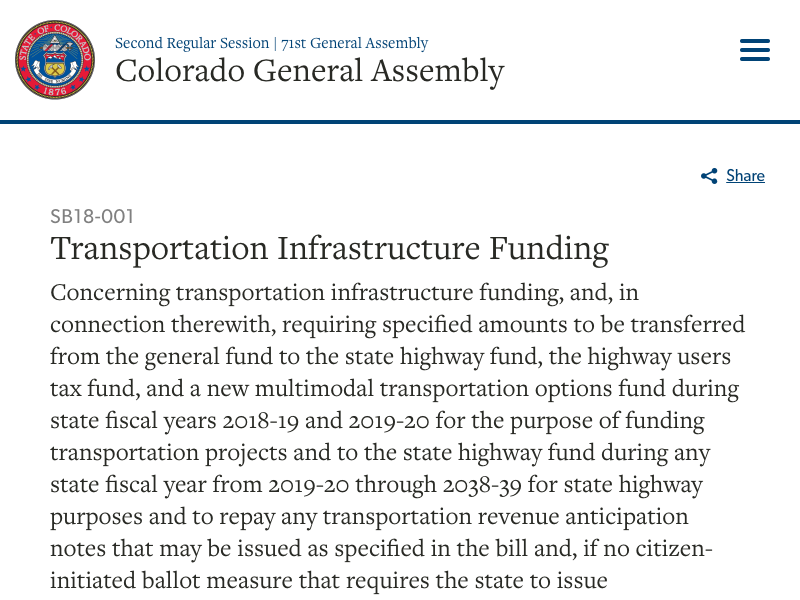
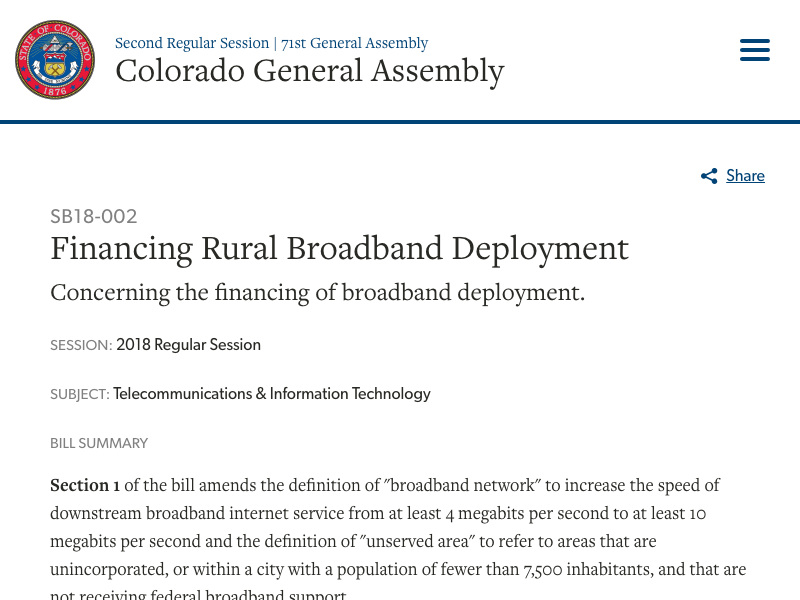
Find url for vote results page

Changed region(s): [[0.0625, 0.48, 0.9375, 1.0], [0.0625, 0.39, 0.7812, 0.45]]

diff --git a/votes.js b/votes.js
@@ -2,30 +2,32 @@ const puppeteer = require("puppeteer");
 
 (async () => {
   try {
-  const browser = await puppeteer.launch({headless: false});
+  const browser = await puppeteer.launch({headless: true});
   const page = await browser.newPage();
 
-  await page.goto("https://leg.colorado.gov/bills/sb18-001");
+  await page.goto("https://leg.colorado.gov/bills/sb18-002");
 
   const chamberSelection = await page.evaluate(() => {
-    const rows = document.querySelectorAll("#bill-documents-tabs4 tr");
-    return Array.from(rows).map((row, index) => {
-      const items = [];
-      Array.from(row.querySelectorAll("td div.field-item")).forEach((item, i) => {
-        if (item.innerText === "REPASS")
-        items.push(row.querySelector("a").href)
-        let votePageLink = row.querySelector("a").href
-        page.click(votePageLink)
-      
-      })
-      return items
+    const chamberVoteSections = document.querySelectorAll("#bill-documents-tabs4 > ul > li");
+    return Array.from(chamberVoteSections).map((voteSection) => {
+      return Array.from(voteSection.querySelectorAll("td[data-label='Motion'] div.field-item")).map((item) => {
+        const items = {};
+        if (item.innerText === "REPASS") {
+          let votePageLink = voteSection.querySelector("tbody a").href
+          items["repass"] = votePageLink
+        } else if (item.innerText === "BILL") {
+          let votePageLink = voteSection.querySelector("tbody a").href
+          items["bill"] = votePageLink
+        } 
+        return items
+      }) 
     })
   })
 
   console.log("cs: ", chamberSelection)
  
   // const finalVotes = await page.evaluate(() => {
-  //   return Array.from(document.querySelectorAll("tbody tr")).map(row => {
+  //   return Array.from(document.querySelectorAll("tbody tr")).map(voteSection => {
       
   //     return person
   //   })

diff --git a/voteSecond.js b/voteSecond.js
@@ -1,21 +1,50 @@
-const puppeteer = require('puppeteer');
+
+//Tuesday
+
+const puppeteer = require("puppeteer");
 
 (async () => {
   try {
-    const browser = await puppeteer.launch({headless: false});
-    const page = await browser.newPage();
-    await page.goto("view-source:https://leg.colorado.gov/bills/sb18-002");
+  const browser = await puppeteer.launch({headless: true});
+  const page = await browser.newPage();
 
-    const voteTab = document.querySelector("div#bill-documents-tabs4 > h2")
+  await page.goto("https://leg.colorado.gov/bills/sb18-002");
 
-    console.log(voteTab.innerText)
+  const chamberSelection = await page.evaluate(() => {  
+    const items = {};
+    const rows = document.querySelectorAll("#bill-documents-tabs4 tr");
+    return Array.from(rows).map((row, index) => {
+      // const items = {};
+      Array.from(row.querySelectorAll("td div.field-item")).forEach((item) => {
+        if (item.innerText === "REPASS") {
+          let votePageLink = row.querySelector("a").href
+          items["repass"] = votePageLink
+          
+        } else if (item.innerText === "BILL") {
+          let votePageLink = row.querySelector("a").href
+          items["bill"] = votePageLink
+        } 
+     })
+      // return items
+    })
+    return items
+  })
 
-    // await page.screenshot({path: 'example.png'});
+  console.log("selection: ", chamberSelection)
+ 
+  // const finalVotes = await page.evaluate(() => {
+  //   return Array.from(document.querySelectorAll("tbody tr")).map(row => {
+      
+  //     return person
+  //   })
+  // })
+  // console.log(JSON.stringify(finalVotes))
+  await page.screenshot({path: 'example.png'});
 
-    await browser.close();
-
-}catch(error){
-  console.error("error: ", error);
-}
+  await browser.close();
+  }catch(error){
+    console.error("error: ", error);
+  }
 
 })();
+
